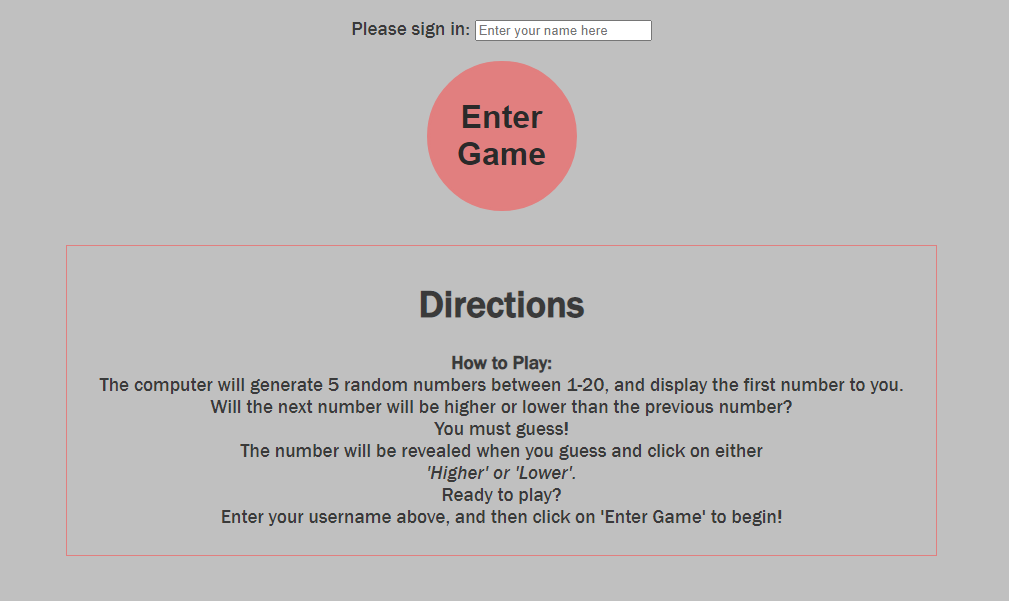
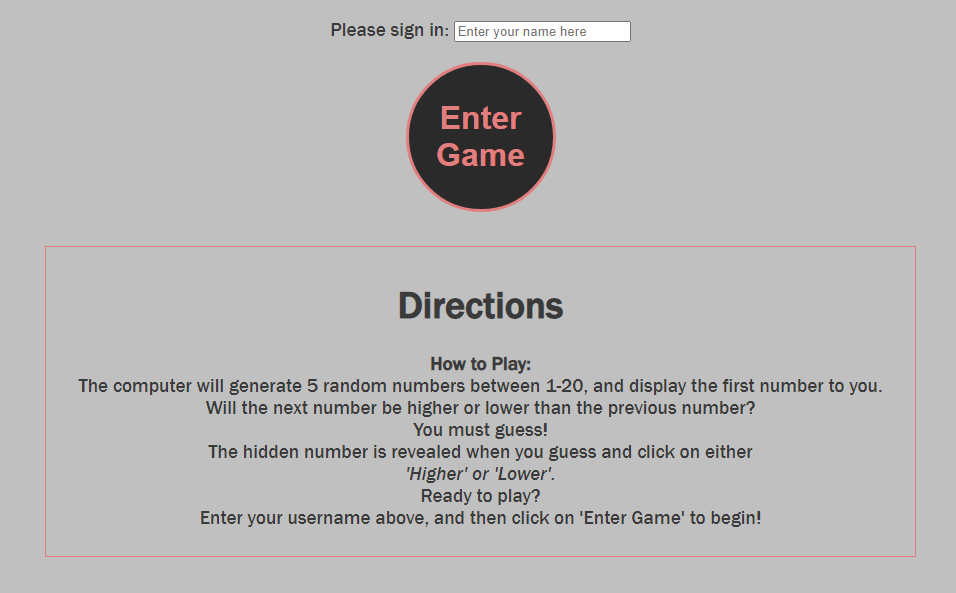
Update screenshot of Directions following typo amendment to HTML

diff --git a/index.html b/index.html
@@ -1,150 +1,108 @@
 <!DOCTYPE html>
 <html lang="en">
-  <head>
-    <meta charset="UTF-8" />
-    <meta http-equiv="X-UA-Compatible" content="IE=edge" />
-    <meta name="viewport" content="width=device-width, initial-scale=1.0" />
-    
-    <link rel="shortcut icon" href="#" />
-    <link rel="stylesheet" href="assets/css/style.css" />
-    <title>HIGHER lower - a deductive game of chance!</title>
-  </head>
-  <body>
-    <div class="heading">
-      <img
-        class="logo"
-        src="assets/images/apple-touch-icon.png"
-        alt="Icon image for website"
-      />
-      <h1>
-        HIGHER lower<br />
-        A Game of Chance!
+
+<head>
+  <meta charset="UTF-8" />
+  <meta http-equiv="X-UA-Compatible" content="IE=edge" />
+  <meta name="viewport" content="width=device-width, initial-scale=1.0" />
+
+  <link rel="shortcut icon" href="#" />
+  <link rel="stylesheet" href="assets/css/style.css" />
+  <title>HIGHER lower - a deductive game of chance!</title>
+</head>
+
+<body>
+  <div class="heading">
+    <img class="logo" src="assets/images/apple-touch-icon.png" alt="Icon image for website" />
+    <h1>
+      HIGHER lower<br />
+      A Game of Chance!
+    </h1>
+  </div>
+
+  <!-- game area containing random numbers div, voting div, increment score div, and timer div -->
+  <div class="game-area">
+    <!-- message div to contain pop-ups -->
+    <div class="messages hide alert">
+      <span id="close-btn">&times;</span>
+      <p class="hide" id="log-in-msg">You must log in to play this game</p>
+      <p class="hide" id="welcome-mgs">Welcome</p>
+      <p class="hide" id="good-guess">Good guess :)</p>
+      <p class="hide" id="bad-guess">Not right this time :(</p>
+    </div>
+
+    <!-- A sign-in input box which will load the game when submitted -->
+    <div id="load-signin" class="sign-in">
+      <label for="name">Please sign in: </label>
+      <input id="name" type="text" name="username" value="" required placeholder="Enter your name here" /><br />
+      <button class="start-game" data-type="submit">Enter Game</button>
+
+      <div class="directions">
+        <h1>Directions</h1>
+        <p>
+          <b>How to Play:</b><br />The computer will generate 5 random numbers
+          between 1-20, and display the first number to you. <br />
+          Will the next number be higher or lower than the previous number?<br />You
+          must guess!<br />The hidden number is revealed when you guess and
+          click on either<br /><em>'Higher' or 'Lower'.</em> <br />
+          Ready to play?<br />Enter your username above, and then click on
+          'Enter Game' to begin!
+        </p>
+      </div>
+    </div>
+    <div id="load-game" class="game hide">
+      <h1 id="game-instruction">
+        Guess will the next number be<br />
+        <em>Higher</em> or <em>Lower</em><br />
+        than the previous number
       </h1>
-    </div>
-
-    <!-- game area containing random numbers div, voting div, increment score div, and timer div -->
-    <div class="game-area">
-      <!-- message div to contain pop-ups -->
-      <div class="messages hide alert">
-        <span id="close-btn">&times;</span>
-        <p class="hide" id="log-in-msg">You must log in to play this game </p>  
-        <p class="hide" id="welcome-mgs">Welcome</p>
-        <p class="hide" id="good-guess">Good guess :)</p>
-        <p class="hide" id="bad-guess">Not right this time :(</p>
+      <div class="random-numbers">
+        <button class="button big-button game-button purple-button" type="button" value="button" disabled>
+          ?
+        </button>
+        <button class="button big-button game-button pink-button" type="button" value="button" disabled>
+          ?
+        </button>
+        <button class="button big-button game-button yellow-button" type="button" value="button" disabled>
+          ?
+        </button>
+        <button class="button big-button game-button blue-button" type="button" value="button" disabled>
+          ?
+        </button>
+        <button class="button big-button game-button green-button" type="button" value="button" disabled>
+          ?
+        </button>
       </div>
-
-      <!-- A sign-in input box which will load the game when submitted -->
-      <div id="load-signin" class="sign-in">
-        <label for="name">Please sign in: </label>
-        <input
-          id="name"
-          type="text"
-          name="username"
-          value=""
-          required
-          placeholder="Enter your name here"
-        /><br />
-        <button class="start-game" data-type="submit">Enter Game</button>
-
-        <div class="directions">
-          <h1>Directions</h1>
-          <p>
-            <b>How to Play:</b><br />The computer will generate 5 random numbers
-            between 1-20, and display the first number to you. <br />
-            Will the next number be higher or lower than the previous
-            number?<br />
-            You must guess!<br />The hidden number is revealed when you guess and
-            click on either<br /><em>'Higher' or 'Lower'.</em> <br />
-            Ready to play?<br />
-            Enter your username above, and then click on 'Enter Game' to begin!
-          </p>
-        </div>
+      <!-- The Higher/Lower guess buttons -->
+      <div class="vote-box">
+        <span><button id="choose-Higher" type="submit" value="submit">
+            Higher
+          </button></span>
+        <span><button id="choose-Lower" type="button" value="button">
+            Lower
+          </button></span>
+        <h1 id="game-end" class="hide">Game Over! Thank you for playing!!</h1>
       </div>
-      <div id="load-game" class="game hide">
-        <h1 id="game-instruction">
-          Guess will the next number be<br />
-          <em>Higher</em> or <em>Lower</em><br />
-          than the previous number
-        </h1>
-        <div class="random-numbers">
-          <button
-            class="button big-button game-button purple-button"
-            type="button"
-            value="button"
-            disabled
-          >
-            ?
-          </button>
-          <button
-            class="button big-button game-button pink-button"
-            type="button"
-            value="button"
-            disabled
-          >
-            ?
-          </button>
-          <button
-            class="button big-button game-button yellow-button"
-            type="button"
-            value="button"
-            disabled
-          >
-            ?
-          </button>
-          <button
-            class="button big-button game-button blue-button"
-            type="button"
-            value="button"
-            disabled
-          >
-            ?
-          </button>
-          <button
-            class="button big-button game-button green-button"
-            type="button"
-            value="button"
-            disabled
-          >
-            ?
-          </button>
-        </div>
-<!-- The Higher/Lower guess buttons -->
-        <div class="vote-box">
-          <span
-            ><button id="choose-Higher" type="submit" value="submit">
-              Higher
-            </button></span
-          >
-          <span
-            ><button id="choose-Lower" type="button" value="button">
-              Lower
-            </button></span
-          >
-          <h1 id="game-end" class="hide">Game Over! Thank you for playing!!</h1>
-        </div>
-        <button
-            class="hide" id="rePlay"
-            data-type="submit2"
-            value="button"         
-          >
-            Play Again
-          </button>
-      </div>
+      <button class="hide" id="rePlay" data-type="submit2" value="button">
+        Play Again
+      </button>
     </div>
+  </div>
 
-    <div class="messages hide">
-      <p id="log-alert" class="hide">You must log in to play!</p>
-      <p id="welcome" class="hide">`Welcome ${playername}`</p>
-    </div>
-<!-- User's score and question total -->
-    <div class="increment-scores">
-      <p>Question <span id="answer-count">0</span>/4</p>
-      <p class="tally">
-        Correct <span id="tally-correct">0</span> Incorrect
-        <span id="tally-incorrect">0</span>
-      </p>
-    </div>
+  <div class="messages hide">
+    <p id="log-alert" class="hide">You must log in to play!</p>
+    <p id="welcome" class="hide">`Welcome ${playername}`</p>
+  </div>
+  <!-- User's score and question total -->
+  <div class="increment-scores">
+    <p>Question <span id="answer-count">0</span>/4</p>
+    <p class="tally">
+      Correct <span id="tally-correct">0</span> Incorrect
+      <span id="tally-incorrect">0</span>
+    </p>
+  </div>
 
-       <script src="assets/js/script.js"></script>
-  </body>
+  <script src="assets/js/script.js"></script>
+</body>
+
 </html>

diff --git a/assets/css/style.css b/assets/css/style.css
@@ -238,17 +238,6 @@ body {
     background-color: hsl(0, 62%, 69%);
     color: #2a2a2a;
 }
-/* .game-over {
-    display: none;
-    box-sizing: border-box;
-    height: 80%;
-    width: 80%;
-    max-height: 950px;
-    max-width: 850px;
-    margin: 10px auto;
-    padding: 1%;
-    background-color: silver;
-} */
 
 /* minimal media screen required as designed to be be responsive on all screen sizes */
 @media screen and  (max-width : 768px) {

diff --git a/README.md b/README.md
@@ -110,12 +110,14 @@ A 404 favicon error persisted throughout testing.  I searched the error in the [
 
 ## Validator Testing
 
-### Lighthouse
+### Lighthouse - passed
 
 [Lighthouse passed](https://8000-monimurray-higherlower-xyb9xfikhiq.ws-eu72.gitpod.io/)
 
 ![lighthouse validation screenshot](assets/images/README-images/lighthouse-validation-test.png)
-### HTML
+
+### HTML - passed
+
 No errors were returned when passing through the official [W3C validator](https://validator.w3.org/nu/?showsource=yes&showoutline=yes&showimagereport=yes&doc=https%3A%2F%2Fmonimurray.github.io%2Fhigher_lower%2F).
 
 ![W3C HTML Validator screenshot](assets/images/README-images/w3html-validator-screenshot.png)
